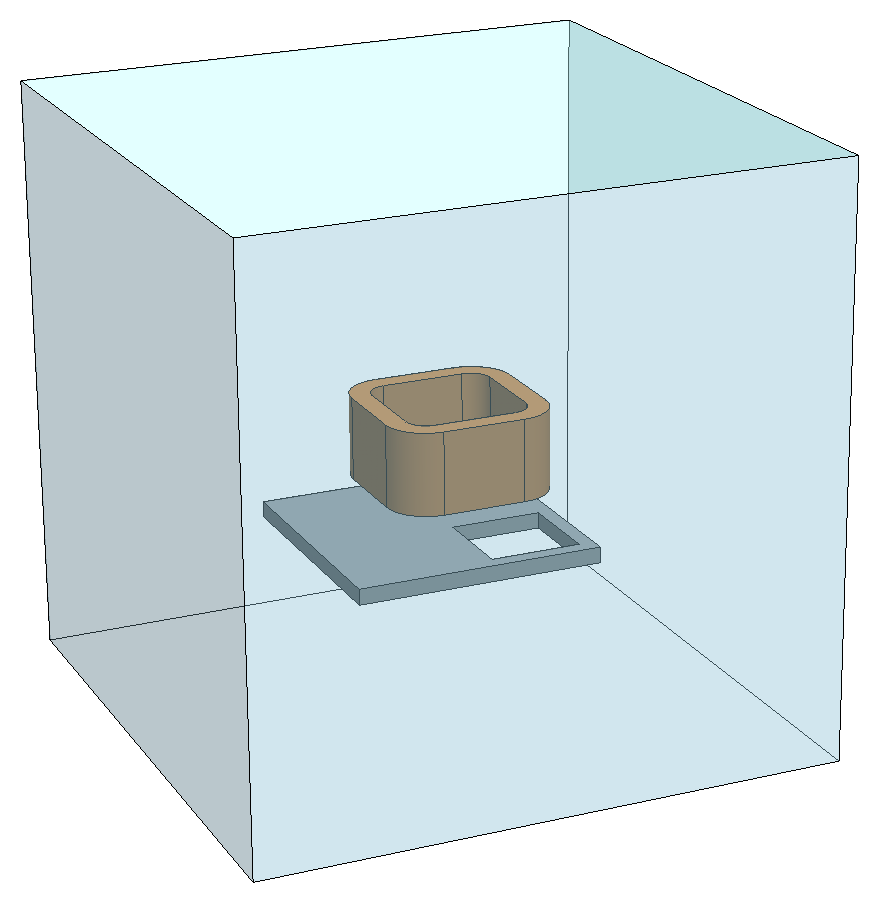
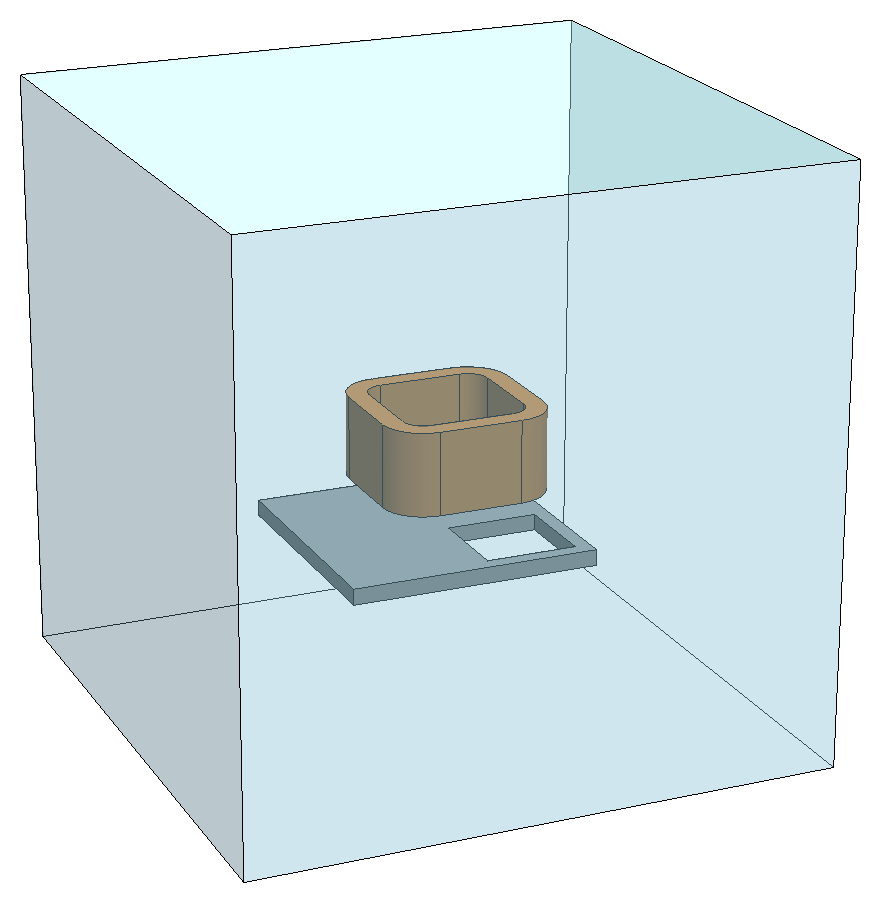
Put z exactly up in the Team7 views to remove a small roll of the camera

diff --git a/Electromagnetics/Compumag-Team7-Asymmetrical-Conductor-with-a-Hole/create_geometry_image.py b/Electromagnetics/Compumag-Team7-Asymmetrical-Conductor-with-a-Hole/create_geometry_image.py
@@ -14,12 +14,12 @@ from casekit.netgen_image import snapshot, trim
 case_dir = Path(__file__).resolve().parent
 
 solids = OCCGeometry(f"{case_dir}/geometry.step").shape.solids
-# The camera of the animation of create_scene.py (position, focal point and view up there).
+# The camera of the animation of create_scene.py (position and focal point there), z up.
 position = (-0.3697352196806951, 0.3392467327757224, 0.22955715848836572)
 focal_point = (-0.3041336634862759, 0.31113183987720244, 0.20412014606490986)
 image = snapshot(
     solids,
     direction=[p - f for p, f in zip(position, focal_point)],
-    up=(0.30395294501951486, -0.1429607220735116, 0.9418995908047652),
+    up=(0, 0, 1),
 )
 trim(image).save(case_dir / "data" / "Geometry.png")

diff --git a/Electromagnetics/Compumag-Team7-Asymmetrical-Conductor-with-a-Hole/create_scene.py b/Electromagnetics/Compumag-Team7-Asymmetrical-Conductor-with-a-Hole/create_scene.py
@@ -107,7 +107,7 @@ direction = [p - f for p, f in zip(position, focal_point)]
 set_camera(
     view,
     direction,
-    (0.30395294501951486, -0.1429607220735116, 0.9418995908047652),
+    (0, 0, 1),
     focal_point,
     parallel_scale=0.18,
     distance=math.dist(position, focal_point),
